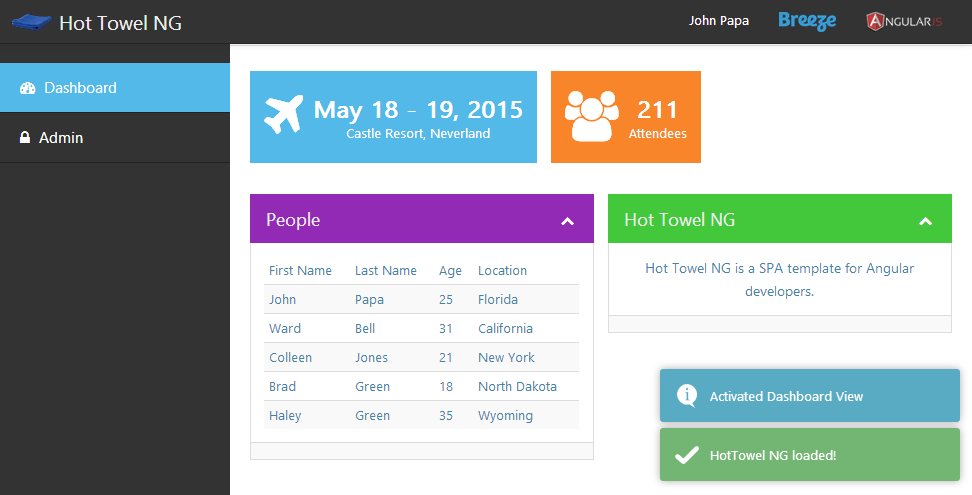
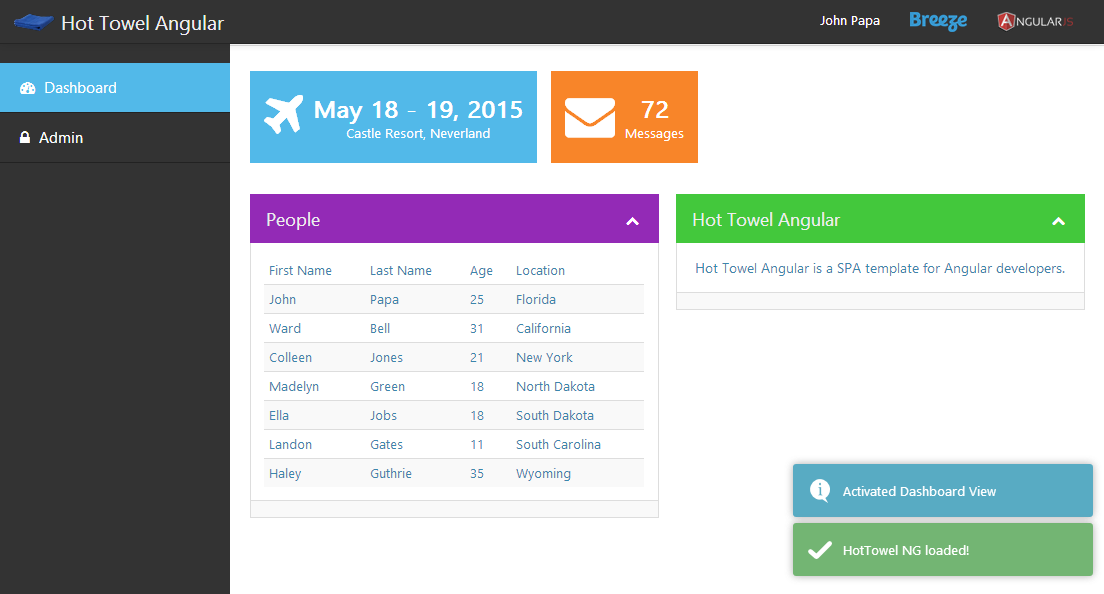
Updated messages.

diff --git a/NuGet/HotTowel-NG/app/dashboard/dashboard.js b/NuGet/HotTowel-NG/app/dashboard/dashboard.js
@@ -9,24 +9,24 @@
 
         var vm = this;
         vm.news = {
-            title: 'Hot Towel NG',
-            description: 'Hot Towel NG is a SPA template for Angular developers.'
+            title: 'Hot Towel Angular',
+            description: 'Hot Towel Angular is a SPA template for Angular developers.'
         };
-        vm.attendeeCount = 0;
+        vm.messageCount = 0;
         vm.people = [];
         vm.title = 'Dashboard';
 
         activate();
 
         function activate() {
-            var promises = [getAttendeeCount(), getPeople()];
+            var promises = [getMessageCount(), getPeople()];
             common.activateController(promises, controllerId)
                 .then(function () { log('Activated Dashboard View'); });
         }
 
-        function getAttendeeCount() {
-            return datacontext.getAttendeeCount().then(function (data) {
-                return vm.attendeeCount = data;
+        function getMessageCount() {
+            return datacontext.getMessageCount().then(function (data) {
+                return vm.messageCount = data;
             });
         }
 

diff --git a/NuGet/HotTowel-NG/index.html b/NuGet/HotTowel-NG/index.html
@@ -8,7 +8,7 @@
             display: none!important;
         }
     </style>
-    <title data-ng-bind="title">Hot Towel NG</title>
+    <title data-ng-bind="title">Hot Towel Angular</title>
     <meta charset="utf-8" />
     <meta http-equiv="X-UA-Compatible" content="IE=edge, chrome=1" />
     <meta name="viewport" content="width=device-width, initial-scale=1, maximum-scale=1, minimum-scale=1, user-scalable=no" />
@@ -37,7 +37,7 @@
         <div id="splash-page" data-ng-show="false">
             <div class="page-splash">
                 <div class="page-splash-message">
-                    Hot Towel NG
+                    Hot Towel Angular
                 </div>
                 <div class="progress progress-striped active page-progress-bar">
                     <div class="bar"></div>

diff --git a/NuGet/HotTowel-NG/app/dashboard/dashboard.html b/NuGet/HotTowel-NG/app/dashboard/dashboard.html
@@ -14,9 +14,9 @@
                         </li>
 
                         <li class="borange">
-                            <div class="pull-left"><i class="icon-group"></i></div>
+                            <div class="pull-left"><i class="icon-envelope"></i></div>
                             <div class="datas-text pull-right">
-                                <span class="bold">{{vm.attendeeCount}}</span> Attendees
+                                <span class="bold">{{vm.messageCount}}</span> Messages
                             </div>
                             <div class="clearfix"></div>
                         </li>

diff --git a/NuGet/HotTowel-NG/app/layout/topnav.html b/NuGet/HotTowel-NG/app/layout/topnav.html
@@ -8,7 +8,7 @@
                 <span class="icon-bar"></span>
             </a>
             <!-- Site name for smallar screens -->
-            <a href="/" class="brand"><span class="brand-title">Hot Towel NG</span></a>
+            <a href="/" class="brand"><span class="brand-title">Hot Towel Angular</span></a>
 
             <!-- Navigation starts -->
             <div class="nav-collapse collapse">

diff --git a/NuGet/HotTowel-NG/app/services/datacontext.js b/NuGet/HotTowel-NG/app/services/datacontext.js
@@ -14,13 +14,13 @@
 
         var service = {
             getPeople: getPeople,
-            getAttendeeCount: getAttendeeCount
+            getMessageCount: getMessageCount
         };
 
         return service;
 
-        function getAttendeeCount() {
-            return $q.when(211);
+        function getMessageCount() {
+            return $q.when(72);
         }
 
         function getPeople() {
